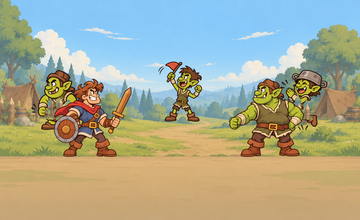
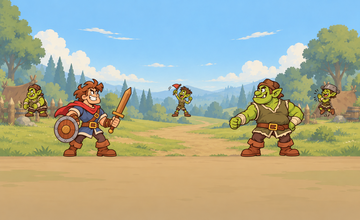
art: scale crowds to distant spectators and remove detached fence overlays

Changed region(s): [[0.0306, 0.3, 0.2139, 0.6], [0.7639, 0.3, 0.9472, 0.6], [0.4278, 0.2727, 0.5806, 0.5727]]

diff --git a/docs/ideas/issue19_handoff.md b/docs/ideas/issue19_handoff.md
@@ -1,32 +1,49 @@
 # Issue #19 — khán giả
 
-Nhánh `art/crowd` tạo độc lập từ main mới nhất `aeefd30e367f3e87c6533d85285d72495aa7068c`; không chứa commit #17/#18.
+Nhánh `art/crowd`, sửa tiếp từ commit `994b677` theo [comment mới của Claude](https://github.com/loc169434-design/Brick-hero/issues/19#issuecomment-6597273522). Bản cập nhật ngày 2026-11-03 này thay thế cách đặt trong bàn giao trước.
 
-GitHub API/GraphQL trả Forbidden; bàn giao tại đây theo yêu cầu. Chưa đăng comment hoặc tạo PR bằng API. Tiêu đề PR đề nghị: “Art: farmer and Orc spectators with arena placement (#19)”.
+GitHub API đọc comment vẫn trả `Forbidden`; đã đọc yêu cầu qua trang issue. Nếu đăng comment tiếp tục bị chặn, dùng file này để bàn giao.
 
-## Xem thử
+## Thay đổi mới
 
-![Farmers, idle/cheer/boo theo cột](issue19_review/crowd_farmers_grid.png)
-![Orc con, idle/cheer/boo theo cột](issue19_review/crowd_orcs_grid.png)
-![Training cheer](issue19_review/training_field_cheer.png)
-![Orc cheer](issue19_review/orc_camp_cheer.png)
-![Training, xem cùng nhân vật chính ở 360 px](issue19_review/training_field_battle_360.png)
-![Orc, xem cùng nhân vật chính ở 360 px](issue19_review/orc_camp_battle_360.png)
+- Hai crowd.json thêm **scale: 0.55**. Ảnh nguồn vẫn 256×256, silhouette cao 180 px; khi hiển thị còn khoảng 99 px.
+- Training: chân ở **(96,354), (540,350), (984,354)**, tương ứng id 1,2,3.
+- Orc: chân ở **(100,350), (540,350), (980,350)**, tương ứng id 1,2,3.
+- Các vị trí đều trên hàng xa y 350–354. Toàn bộ phần hình ở cả idle/cheer/boo tránh hai dải x 170–370 và 710–910, không chỉ kiểm tra tọa độ chân.
+- **Đã xóa** assets/bg/training_field/crowd_fence.png và assets/bg/orc_camp/crowd_fence.png. Bỏ foreground_overlay và draw_order cũ khỏi hai JSON. Không dùng lớp rào riêng; nền đã có rào trong mid.
+- Giữ nguyên byte-for-byte cả **18 PNG** và hai lưới biểu cảm. Không vẽ lại nhân vật.
+
+## Ảnh xem thử mới
+
+Đủ ba khán giả ở dáng cheer, scale 0.55, cùng hai nhân vật chính. Khán giả vẽ sau nền và trước fighters; không thêm bất kỳ lớp rào phụ nào. Canvas fighter của ảnh so sánh giữ nguyên 300×300 như bản cũ để nhìn được khác biệt về cỡ.
+
+![Training ở 360 px](issue19_review/training_field_battle_360.png)
+![Orc ở 360 px](issue19_review/orc_camp_battle_360.png)
+![Training: bản cũ trái, bản sửa phải](issue19_review/training_field_battle_360_before_after.png)
+![Orc: bản cũ trái, bản sửa phải](issue19_review/orc_camp_battle_360_before_after.png)
+
+Có cả bản native 1080×660: [Training](issue19_review/training_field_battle_native.png), [Orc](issue19_review/orc_camp_battle_native.png), và ảnh chỉ nền + khán giả: [Training](issue19_review/training_field_cheer.png), [Orc](issue19_review/orc_camp_cheer.png).
 
 ## Tích hợp
 
-- 3 nông dân: ông già chống gậy, bà bán rau, cậu bé; quay phải. 3 Orc con: béo, gầy cầm cờ, đội nồi; quay trái. Mỗi người đủ idle, cheer, boo. Orc boo là cười/chỉ trỏ khi hero bị đánh.
-- Tất cả canvas 256×256, alpha trong suốt, điểm chân (128,248), silhouette cao 180 px. Không có bóng nền baked. Hai bộ cùng viền nâu và mảng màu của nhân vật hiện có.
-- crowd.json dùng tọa độ chân trong canvas nền 1080×660: (170,390), (540,365), (910,390), lần lượt id 1,2,3. Đặt sprite tại spot trừ (128,248). Người giữa đứng phía sau lối vào, hai người hai bên sau hàng rào.
-- Thứ tự: mid → crowd → crowd_fence → ground → fighters. Khán giả luôn vẽ dưới hai nhân vật chính.
-- **Bổ sung crowd_fence.png:** canvas 1080×660, alpha chỉ giữ các thanh/cọc rào lấy từ đúng ảnh nền gốc. Vẽ tại (0,0) sau crowd để chân không đè lên rào. Đây là overlay bổ sung cần thiết vì mid gốc vẽ trước khán giả; không phải ảnh nền mới. Nếu tích hợp parallax, overlay rào phải dùng cùng transform với hàng rào trong mid. crowd.json có foreground_overlay và draw_order để ghi rõ điều này.
-- Không sửa code, scenes, tests hoặc project.godot. Động tác nhún/nhảy/timing phản ứng do code điều khiển.
+crowd.json chỉ còn folder, scale, spots. spots là tọa độ chân theo khung nền 1080×660. Với scale s, góc trên trái sprite là (x − 128s, y − 248s); hoặc đặt node tại (x,y), giữ offset ảnh (−128,−248) và scale node bằng s. Nhân vật chính luôn vẽ phía trước khán giả. Giữ các lớp rào/cảnh sẵn có trong nền, bỏ mọi tham chiếu đến overlay rào riêng đã xóa.
 
-## Kiểm tra
+Nông dân quay phải; Orc con quay trái. Orc boo là cười/chỉ trỏ. Timing reo hò và nhún/nhảy do phần tích hợp điều khiển.
 
-18/18 PNG nhân vật đúng kích thước 256×256, nền alpha, cao đúng 180, chân baseline 248. Hai overlay đúng 1080×660. Lưới và ảnh ghép đã được xem lại; nhân vật chính được vẽ sau crowd nên không bị crowd che. Godot 4.7.2 import sạch; suite hiện có 49 passed, 0 failed. Chưa gắn trigger reo hò vào trận bằng code.
+## Kiểm tra đợt sửa
 
-## Danh sách file
+- Hai JSON parse đúng, scale là số 0.55, không còn key overlay hoặc draw_order cũ.
+- Cả 18 checksum PNG khớp bản trước.
+- 18/18 vùng hình sau scale nằm trong canvas và không giao hai dải x của fighters; mọi chân ở y 350–354, thuộc khoảng 330–370 yêu cầu.
+- Đã xem lại ảnh ghép hai nền ở cỡ 360 px; không có khúc rào bay và không có crowd chồng lên đầu fighters.
+- Số đo và checksum: [placement_fix_metrics.json](issue19_review/placement_fix_metrics.json). Đây là kiểm tra asset/metadata và ảnh ghép; chưa chạy lại phần tích hợp của Claude trong game.
+
+## Lưới biểu cảm giữ nguyên
+
+![Farmers: idle, cheer, boo](issue19_review/crowd_farmers_grid.png)
+![Orc: idle, cheer, boo](issue19_review/crowd_orcs_grid.png)
+
+## Danh sách asset hiện tại
 
 - `assets/characters/crowd_farmers/1_idle.png`
 - `assets/characters/crowd_farmers/1_cheer.png`
@@ -48,5 +65,3 @@ GitHub API/GraphQL trả Forbidden; bàn giao tại đây theo yêu cầu. Chưa
 - `assets/characters/crowd_orcs/3_boo.png`
 - `assets/bg/training_field/crowd.json`
 - `assets/bg/orc_camp/crowd.json`
-- `assets/bg/training_field/crowd_fence.png`
-- `assets/bg/orc_camp/crowd_fence.png`
